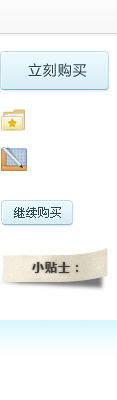
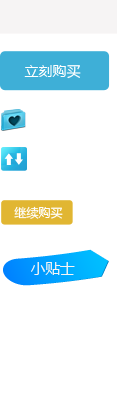
修正了一大批的bug

diff --git a/css/shua.css b/css/shua.css
@@ -5,7 +5,7 @@
 	margin: 0px auto; width: 1000px; position: relative;
 }
 .ds_news {
-	background: url(/images/dsym.gif) no-repeat -1px -1px; top: 5px; width: 341px; height: 292px; right: 14px; position: absolute;
+	background: url(/images/dsym.jpg) no-repeat -1px -1px; top: 5px; width: 341px; height: 292px; right: 14px; position: absolute;
 }
 .ds_news .ds_zxlist {
 	margin: 40px 0px 0px 15px; height: 138px;
@@ -14,10 +14,10 @@
 	margin: 18px 0px 0px 13px; padding-left: 45px; font-size: 14px;
 }
 .ds_news .ds_btn .btn {
-	background: url(/images/dsym.gif) no-repeat -1px -308px; margin: 12px 0px 0px 25px; width: 105px; height: 34px; float: left; display: block;
+	background: url(/images/dsym.jpg) no-repeat -1px -308px; margin: 12px 0px 0px 25px; width: 105px; height: 34px; float: left; display: block;
 }
 .ds_news .ds_btn .btn2 {
-	background: url(/images/dsym.gif) no-repeat 0px -308px; margin: 12px 0px 0px 12px; width: 145px; height: 45px; float: left; display: block;
+	background: url(/images/dsym.jpg) no-repeat 0px -308px; margin: 12px 0px 0px 12px; width: 145px; height: 45px; float: left; display: block;
 }
 .ds_news .ds_btn .btn2 {
 	background: url(/images/shua_btn2.gif) no-repeat; margin: 9px 0px 0px 12px; width: 147px; height: 47px;
@@ -26,28 +26,28 @@
 	margin: 10px 0px 0px;
 }
 .ds_about .ds_a1 {
-	background: url(/images/dsym.gif) no-repeat left -360px;
+	background: url(/images/dsym.png) no-repeat left -360px;
 }
 .ds_about .ds_a2 {
-	background: url(/images/dsym.gif) repeat-x left -482px;
+	background: url(/images/dsym.png) repeat-x left -482px;
 }
 .ds_about .ds_a3 {
-	background: url(/images/dsym.gif) no-repeat right -604px;
+	background: url(/images/dsym.png) no-repeat right -604px;
 }
 .ds_about .ds_fw {
-	background: url(/images/dsym.gif) no-repeat 0px -744px; width: 83px; height: 68px; float: left; display: block;
+	background: url(/images/dsym.png) no-repeat 0px -744px; width: 83px; height: 68px; float: left; display: block;
 }
 .ds_about .ds_fw2 {
-	background: url(/images/dsym.gif) no-repeat 0px -744px; width: 83px; height: 68px; float: left; display: block;
+	background: url(/images/dsym.png) no-repeat 0px -744px; width: 83px; height: 68px; float: left; display: block;
 }
 .ds_about .ds_fw3 {
-	background: url(/images/dsym.gif) no-repeat 0px -744px; width: 83px; height: 68px; float: left; display: block;
+	background: url(/images/dsym.png) no-repeat 0px -744px; width: 83px; height: 68px; float: left; display: block;
 }
 .ds_about .ds_fw2 {
-	background: url(/images/dsym.gif) no-repeat -119px -744px;
+	background: url(/images/dsym.png) no-repeat -119px -744px;
 }
 .ds_about .ds_fw3 {
-	background: url(/images/dsym.gif) no-repeat -233px -744px;
+	background: url(/images/dsym.png) no-repeat -233px -744px;
 }
 .ds_about .ds_a2 p {
 	color: rgb(36, 130, 207); font-size: 14px;
@@ -62,11 +62,11 @@
 	width: 610px; min-height: 325px; margin-top: 5px; float: left;padding-left: 10px;
 }
 .ds_cplist .ds_tit {
-	background: url(/images/dsym.gif) no-repeat 0px -851px; height: 46px; line-height: 46px; text-indent: 55px; font-size: 14px;background-color: white;
+	background: url(/images/dsym.png) no-repeat 0px -851px; height: 46px; line-height: 46px; text-indent: 55px; font-size: 14px;background-color: white;
 }
 .ds_cplist .ds_qq{background-color: white;}
 .ds_cplist .ds_line {
-	background: url(/images/dsym.gif) no-repeat 0px -1046px; margin: 7px 0px 0px 5px; width: 300px; height: 160px; float: left; position: relative; _margin: 7px 0 0 3px;
+	background: url(/images/dsym.png) no-repeat 0px -1046px; margin: 7px 0px 0px 5px; width: 300px; height: 160px; float: left; position: relative; _margin: 7px 0 0 3px;
 }
 .ds_cplist .ds_line .name {
 	left: 3px; top: 15px; color: rgb(36, 130, 207); font-weight: bold; position: absolute;
@@ -75,58 +75,58 @@
 	left: 118px; top: 43px; position: absolute;
 }
 .ds_cplist .ds_line .ds_dj1 {
-	background: url(/images/dsym.gif) no-repeat -2px -1231px; left: 24px; top: 58px; width: 85px; height: 72px; position: absolute;
+	background: url(/images/dsym.png) no-repeat -2px -1231px; left: 24px; top: 58px; width: 85px; height: 72px; position: absolute;
 }
 .ds_cplist .ds_line .ds_dj2 {
-	background: url(/images/dsym.gif) no-repeat -2px -1231px; left: 24px; top: 58px; width: 85px; height: 72px; position: absolute;
+	background: url(/images/dsym.png) no-repeat -2px -1231px; left: 24px; top: 58px; width: 85px; height: 72px; position: absolute;
 }
 .ds_cplist .ds_line .ds_dj3 {
-	background: url(/images/dsym.gif) no-repeat -2px -1231px; left: 24px; top: 58px; width: 85px; height: 72px; position: absolute;
+	background: url(/images/dsym.png) no-repeat -2px -1231px; left: 24px; top: 58px; width: 85px; height: 72px; position: absolute;
 }
 .ds_cplist .ds_line .ds_dj4 {
-	background: url(/images/dsym.gif) no-repeat -2px -1231px; left: 24px; top: 58px; width: 85px; height: 72px; position: absolute;
+	background: url(/images/dsym.png) no-repeat -2px -1231px; left: 24px; top: 58px; width: 85px; height: 72px; position: absolute;
 }
 .ds_cplist .ds_line .ds_dj5 {
-	background: url(/images/dsym.gif) no-repeat -2px -1231px; left: 24px; top: 58px; width: 85px; height: 72px; position: absolute;
+	background: url(/images/dsym.png) no-repeat -2px -1231px; left: 24px; top: 58px; width: 85px; height: 72px; position: absolute;
 }
 .ds_cplist .ds_line .ds_dj6 {
-	background: url(/images/dsym.gif) no-repeat -2px -1231px; left: 24px; top: 58px; width: 85px; height: 72px; position: absolute;
+	background: url(/images/dsym.png) no-repeat -2px -1231px; left: 24px; top: 58px; width: 85px; height: 72px; position: absolute;
 }
 .ds_cplist .ds_line .ds_dj7 {
-	background: url(/images/dsym.gif) no-repeat -2px -1231px; left: 24px; top: 58px; width: 85px; height: 72px; position: absolute;
+	background: url(/images/dsym.png) no-repeat -2px -1231px; left: 24px; top: 58px; width: 85px; height: 72px; position: absolute;
 }
 .ds_cplist .ds_line .ds_dj8 {
-	background: url(/images/dsym.gif) no-repeat -2px -1231px; left: 24px; top: 58px; width: 85px; height: 72px; position: absolute;
+	background: url(/images/dsym.png) no-repeat -2px -1231px; left: 24px; top: 58px; width: 85px; height: 72px; position: absolute;
 }
 .ds_cplist .ds_line .ds_dj2 {
-	background: url(/images/dsym.gif) no-repeat -115px -1231px;
+	background: url(/images/dsym.png) no-repeat -115px -1231px;
 }
 .ds_cplist .ds_line .ds_dj3 {
-	background: url(/images/dsym.gif) no-repeat -239px -1231px;
+	background: url(/images/dsym.png) no-repeat -239px -1231px;
 }
 .ds_cplist .ds_line .ds_dj4 {
-	background: url(/images/dsym.gif) no-repeat -7px -1342px;
+	background: url(/images/dsym.png) no-repeat -7px -1342px;
 }
 .ds_cplist .ds_line .ds_dj5 {
-	background: url(/images/dsym.gif) no-repeat -119px -1342px;
+	background: url(/images/dsym.png) no-repeat -119px -1342px;
 }
 .ds_cplist .ds_line .ds_dj6 {
-	background: url(/images/dsym.gif) no-repeat -243px -1342px;
+	background: url(/images/dsym.png) no-repeat -243px -1342px;
 }
 .ds_cplist .ds_line .ds_dj7 {
-	background: url(/images/dsym.gif) no-repeat -7px -1445px;
+	background: url(/images/dsym.png) no-repeat -7px -1445px;
 }
 .ds_cplist .ds_line .ds_dj8 {
-	background: url(/images/dsym.gif) no-repeat -119px -1445px;
+	background: url(/images/dsym.png) no-repeat -119px -1445px;
 }
 .ds_cplist .ds_line .text .ds_btn {
-	background: url(/images/dsym.gif) no-repeat 0px -1737px; width: 81px; height: 25px; margin-top: 5px; display: block;
+	background: url(/images/dsym.png) no-repeat 0px -1737px; width: 81px; height: 25px; margin-top: 5px; display: block;
 }
 .dsym_bt {
-	background: url(/images/dsym.gif) no-repeat -10px -919px; height: 50px;
+	background: url(/images/dsym.png) no-repeat -10px -919px; height: 50px;
 }
 .dsym_bt2 {
-	background: url(/images/dsym.gif) no-repeat -10px -983px; height: 50px;
+	background: url(/images/dsym.png) no-repeat -10px -983px; height: 50px;
 }
 
 .xuanchuan-content {width:960px; margin:0 auto; font-family:微软雅黑; background:#eee; }
@@ -142,7 +142,7 @@
 	.xuanchuan-n-part p {margin-left:15px; line-height:20px; font-size:13px; margin-top:15px; margin-bottom:10px;}
 	.xuanchuan-id-tit {background:url(/images/xuanchuan-5.jpg) no-repeat; width:960px; height:41px; color:#fff; text-align:center; font-weight:bold; font-size:16px; line-height:41px;}
 	.xuanchuan-wenda {font-size:14px; padding:30px;}
-	
+
 	.xbox{width:auto;height:auto;padding:15px 20px}
 .xbox a { text-decoration:none;}
 .xbox a:hover { color:#FF6600; text-decoration:underline;}
@@ -161,13 +161,13 @@
     padding-left: 25px;
     width: 36px;
 }
-div, h1, h2, h3, h4, p, form, label, input, img, span{ 
-	margin:0; 
+div, h1, h2, h3, h4, p, form, label, input, img, span{
+	margin:0;
 	padding:0;
 	}
 ul{
-	margin:0; 
-	padding:0; 
+	margin:0;
+	padding:0;
 	list-style-type:none;
 }
 img{border:none;}
@@ -221,9 +221,9 @@ a.kf2c { color:#999999;}
 	width:1000px;
 	height:102px;
 	}
-#m_logo .kd .hy a.dmhtel { 
+#m_logo .kd .hy a.dmhtel {
 	width:36px;
-	height:22px; 
+	height:22px;
 	background:url(/images/dmhtel.png no-repeat);
 	float:left;
 	padding-left:18px;
@@ -375,13 +375,13 @@ body{
 	width:100%;
 	color:#666;
 	}
-div, h1, h2, h3, h4, p, form, label, input, img, span{ 
-	margin:0; 
+div, h1, h2, h3, h4, p, form, label, input, img, span{
+	margin:0;
 	padding:0;
 	}
 ul{
-	margin:0; 
-	padding:0; 
+	margin:0;
+	padding:0;
 	list-style-type:none;
 }
 a{color:#666; text-decoration:none; }

diff --git a/templates/default/bbs/right.htm b/templates/default/bbs/right.htm
@@ -1,38 +1,27 @@
-  <DIV class="lt_right">
-    <P style="height: 92px; margin-top: 10px;"><A href="{rewrite}/help/fpcs/" 
-target="_blank"><IMG title="防骗常识" alt="防骗常识" src="/images/DM_2293137b.jpg" 
-width="245" height="92"></A></P>
-    <H4 class="luntan_zt">最近发表</H4>
-	{eval $list=bbs_thread::getThreadList2('','timestamp desc',1,8);}
-    <UL class="luntan_rmbk">
-				{loop $list $thread}
-				<li><a href="{rewrite}/bbs/t$thread[id]/" class="link_b_1" target="_blank" title="$thread[title]">{if $thread[title_style]}
-				<span style="$thread[title_style]">{cutstr $thread[title],16}</span>{else}{cutstr $thread[title],16}{/if}</a></li>
-				{/loop}
-	  
-    </UL>
-	{eval
-		$forumSimple = bbs_forums::getForumSimple('gonggao', 'ename');
-		$list=bbs_thread::getThreadList2("fid='$forumSimple[id]'",'timestamp desc',1,7);
-	}
-    <IMG style="margin-top: 10px;" border="0" src="/images/wsxs_img.jpg" 
-useMap="#Map">
-    <MAP id="Map" name="Map">
-      <AREA href="{rewrite}/help/" shape="rect" coords="19,145,105,177">
-    </MAP>
-    <H4 class="luntan_zt">精华主题</H4>
-	
-    <UL class="luntan_rmbk">
-      {loop $list $thread}
-				<li><a href="{rewrite}/bbs/t$thread[id]/" class="link_b_1" target="_blank" title="$thread[title]">{if $thread[title_style]}
-				<span style="$thread[title_style]">{cutstr $thread[title],14}</span>{else}{cutstr $thread[title],14}{/if}</a></li>
-				{/loop}
-    </UL>
-	
-    <IMG style="margin-top: 10px;" 
-border="0" src="/images/wsxdz_img.jpg" useMap="#Map2">
-    <MAP id="Map2" name="Map2">
-      <AREA 
-  href="{rewrite}/Tuoguanfuwu/" shape="rect" coords="18,156,104,187">
-    </MAP>
-  </DIV>
+<DIV class="lt_right">
+	<P style="height: 92px; margin-top: 10px;">
+		<IMG title="防骗常识" alt="防骗常识" src="/images/DM_2293137b.jpg" width="245" height="92" useMap="#map1">	<MAP id="Map1" name="Map1">
+		<AREA href="{rewrite}/help/fpcs/" shape="rect" coords="48,65,134,88">
+	</MAP>
+	</P>
+	 <H4 class="luntan_zt">最近发表</H4>
+{eval $list=bbs_thread::getThreadList2('','timestamp desc',1,8);}
+	<UL class="luntan_rmbk">{loop $list $thread}
+		<li><a href="{rewrite}/bbs/t$thread[id]/" class="link_b_1" target="_blank" title="$thread[title]">{if $thread[title_style]}
+				<span style="$thread[title_style]">{cutstr $thread[title],16}</span>{else}{cutstr $thread[title],16}{/if}</a>
+		</li>{/loop}</UL>{eval $forumSimple = bbs_forums::getForumSimple('gonggao', 'ename'); $list=bbs_thread::getThreadList2("fid='$forumSimple[id]'",'timestamp desc',1,7); }
+	<IMG style="margin-top: 10px;" border="0" src="/images/wsxs_img.jpg" useMap="#Map">
+	<MAP id="Map" name="Map">
+		<AREA href="{rewrite}/help/taskout/" shape="rect" coords="19,137,105,162">
+	</MAP>
+	 <H4 class="luntan_zt">精华主题</H4>
+
+	<UL class="luntan_rmbk">{loop $list $thread}
+		<li><a href="{rewrite}/bbs/t$thread[id]/" class="link_b_1" target="_blank" title="$thread[title]">{if $thread[title_style]}
+				<span style="$thread[title_style]">{cutstr $thread[title],14}</span>{else}{cutstr $thread[title],14}{/if}</a>
+		</li>{/loop}</UL>
+	<IMG style="margin-top: 10px;" border="0" src="/images/wsxdz_img.jpg" useMap="#Map2">
+	<MAP id="Map2" name="Map2">
+		<AREA href="{rewrite}/Tuoguan/" shape="rect" coords="78,206,164,235">
+	</MAP>
+</DIV>

diff --git a/css/httshouye.css b/css/httshouye.css
@@ -71,9 +71,9 @@ hr{ border-bottom:1px solid #b8b9b9;}
 .sht-1:hover{ background:url(../img/att_12.png) no-repeat;}
 .sht-2:hover{ background:url(../img/att_12.png) no-repeat;}
 .sht-3:hover{ background:url(../img/att_12.png) no-repeat;}
-.zck{ width:292px; min-height:200px; background:url(../img/att_25.png) repeat; position:absolute; bottom:9px; left:102px;-webkit-border-radius: 5px;-moz-border-radius: 5px;border-radius: 5px;/* filter:alpha(opacity=20);opacity: 0.9;
+.zck{ width:292px; min-height:200px; background:url(../img/att_25.png) repeat; position:absolute; bottom:32px; left:102px;-webkit-border-radius: 5px;-moz-border-radius: 5px;border-radius: 5px;/* filter:alpha(opacity=20);opacity: 0.9;
 -moz-opacity: 0.5;*/
-filter:alpha(opacity=80);}
+}
 .zck h2{font:100 16px/40px "微软雅黑"; color:#fff; width:274px; height:40px; background:#349dc2; text-align:center; margin:10px auto; }
 .form1{ width:274px; height:38px; /*background:url(../img/att_02.jpg) no-repeat;*/ margin:auto;}
 .form1 .yhm{ width:201px; height:28px; background:#eae9e9; float:right;font:100 14px/38px "微软雅黑"; color:#545454; text-indent:10px;}
@@ -236,3 +236,6 @@ p.taskbutton input.taskadd{width:162px;}
 /*论坛修正*/
 #ImageUrl,#vcode{border:1px solid #c5c5c5;}
 input.luntan_inp{margin:0px;min-height:23px;}
+
+/*首页网站托管部分样式修正*/
+.wdtg h2,.yyzd h2,.rwdt h2{margin: 0px;}

diff --git a/templates/default/task/tao_tieBuyer.htm b/templates/default/task/tao_tieBuyer.htm
@@ -162,10 +162,10 @@
 		</td>
 					<td class="mh_xxian" align="center">
 					{if $v[status]!=6}
-					<a href="javascript:;" onclick="dialog(650,500,'设置买号收货地址','{rewrite}/dialog/buyerAddress/?id=$v[id]');return false;" class="link_tt">收货地址</a>
+					<a href="javascript:;" onclick="dialog(650,500,'设置买号收货地址','{rewrite}/dialog/buyerAddress/?id=$v[id]');return false;" class="link_tt"><!--收货地址--></a>
 					{/if}
 					{if $v[status]==0}
-			        <a href="javascript:;" onclick="return IsDelAcc(this,$v[id]);" class="mh_cz">删除</a>
+			        <a href="javascript:;" onclick="return IsDelAcc(this,$v[id]);" class="mh_cz"><!--删除--></a>
                      {/if}
 					</td>
 					<td>&nbsp;</td>

diff --git a/images/task.js b/images/task.js
@@ -422,7 +422,7 @@ function SelectBuyerAccountNew(mid, btn, $accountList, IsReal) {
 				content: "处理中，请稍候...",
 				id: "tips",
 				lock: true
-			});			
+			});
 			$.post("/ajax/choosebuyer.php", {
 				"taskid": mid,
 				"buyAccount": aId,
@@ -483,7 +483,6 @@ function SelectBuyerAccount(mid, btn, $accountList, IsReal) {
 	var alllen = $accountList.find("input:radio").size();
 	var Reallen = $("#trListTrueName").find("input:radio[disabled]").size();
 	var AllReallen = $("#trListTrueName").find("input:radio").size();
-	alert(Reallen+"    "+AllReallen);
 	var Normal = $(".trListNormal");
 	if (Reallen == AllReallen && IsReal == 1) {
 		artDialog({

diff --git a/templates/prev/member/exchange.htm b/templates/prev/member/exchange.htm
@@ -169,7 +169,7 @@
         <UL>
           <LI>
             <INPUT name="sid" value="1" type="radio">
-            <IMG src="/images/icons/xin1.gif"> 一心普通买号2个　<FONT color="red">30麦点</FONT></LI>
+            <IMG src="/images/icons/xin1.png"> 一心普通买号2个　<FONT color="red">30麦点</FONT></LI>
           <li><input type="radio" value="2" name="sid" /> <img src="/images/icons/xin2.gif" /> 二心普通买号2个　<font color="red">35麦点</font></li>
 				<li><input type="radio" value="3" name="sid" /> <img src="/images/icons/xin3.gif" /> 三心普通买号2个　<font color="red">40麦点</font></li>
           <LI>

diff --git a/templates/prev/member/ShuaKe.htm b/templates/prev/member/ShuaKe.htm
@@ -107,7 +107,7 @@ $sys_hash_code2
 $sys_hash_code2
 <INPUT name="applyfor" value="2" type="hidden">
 <UL>
-  <LI><INPUT name="sid" value="1" type="radio"> <IMG src="/images/icons/xin1.gif"> 
+  <LI><INPUT name="sid" value="1" type="radio"> <IMG src="/images/icons/xin1.png"> 
   一心买号10个　<FONT color="red">45元</FONT></LI>
   <li><input type="radio" value="2" name="sid" /> <img src="/images/icons/xin2.gif" /> 二心买号10个　<font color="red">45元</font></li>
   <li><input type="radio" value="3" name="sid" /> <img src="/images/icons/xin3.gif" /> 三心买号10个　<font color="red">60元</font></li>

diff --git a/templates/default/member/login.htm b/templates/default/member/login.htm
@@ -52,7 +52,7 @@ var setQuestion=function(){
 		</div>		
 	<div class="cle"></div>
 </div>
-    <a style="width: 100%; background: #e7d6ab; float: left; text-align: center;" href="{rewrite}/info/tomorrow" target="_blank">
+    <a style="width: 100%; background: #7ACAD8; float: left; text-align: center;" href="{rewrite}/info/tomorrow" target="_blank">
 	<img src="/images/pengyou.gif"/></a>
 	<div class="cle"></div>
 <script type="text/javascript">

diff --git a/templates/default/tuoguan/tuoguan.htm b/templates/default/tuoguan/tuoguan.htm
@@ -9,7 +9,7 @@ $(function() {
 <!--banner 登录框开始-->
 <DIV style="margin-top: 0px;" id="ds_banner">
 <DIV class="kd">
-<DIV class="banner"><IMG src="/images/ds_banner.gif" width="602" height="302"></DIV>
+<DIV class="banner"><IMG src="/images/ds_banner.gif" ><!--width="602" height="302"--> </DIV>
 <DIV class="ds_news">
 <DIV class="ds_zxlist">
 <TABLE id="table" border="0" cellSpacing="0" cellPadding="0" width="95%">

diff --git a/templates/default/footer.htm b/templates/default/footer.htm
@@ -5,7 +5,4 @@
 <p>客户服务热线：02968929109 Copyright © 2012-2020 huatutu.com All RightsReserved 花兔兔版权所有 粤ICP备13037934号</p>
 	
 </div>
-		<link href="/css/httshouye.css" rel="stylesheet" type="text/css" />
-		{if $memberLogined}
-		<link href="/css/denglu.css" rel="stylesheet" type="text/css" />
-		{/if}
+

diff --git a/templates/default/regheader.htm b/templates/default/regheader.htm
@@ -33,6 +33,10 @@ var weburl='$weburl';
 var weburl2='$weburl2';
 var sys_hash2='$sys_hash2';
 </script>
+		<link href="/css/httshouye.css" rel="stylesheet" type="text/css" />
+		{if $memberLogined}
+		<link href="/css/denglu.css" rel="stylesheet" type="text/css" />
+		{/if}
 </head>
 <body>
 <!--头部开始-->

diff --git a/templates/default/header3.htm b/templates/default/header3.htm
@@ -53,6 +53,10 @@ var weburl='$weburl';
 var weburl2='$weburl2';
 var sys_hash2='$sys_hash2';
 </script>
+		<link href="/css/httshouye.css" rel="stylesheet" type="text/css" />
+		{if $memberLogined}
+		<link href="/css/denglu.css" rel="stylesheet" type="text/css" />
+		{/if}
 </head>
 <body>
 		<div id="top">
